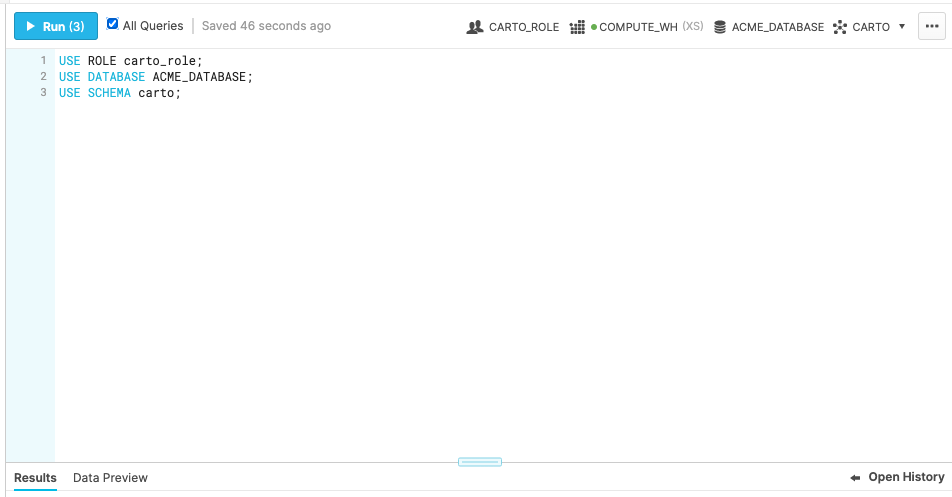
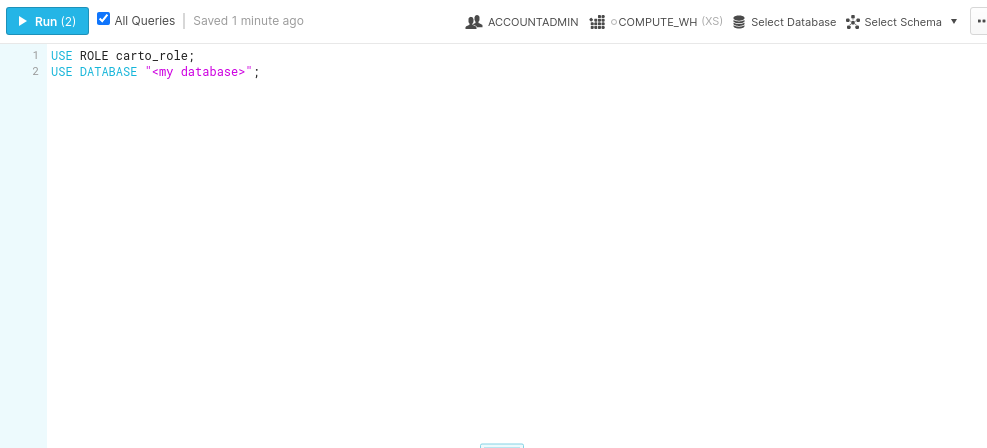
Update images

diff --git a/app/content/analytics-toolbox-snowflake/overview/getting-access.md b/app/content/analytics-toolbox-snowflake/overview/getting-access.md
@@ -46,7 +46,7 @@ This step consists of setting up the Snowflake database where we want to install
 
 We'll create a schema named "carto" in the database where you want the CARTO Analytics Toolbox installed.
 
-We recommend having a dedicated user called "carto" to manage the CARTO Analytics Toolbox. The following script will create the user, schema and role to be used for the installation in your database. Note that this script must be executed by an [account administrator](https://docs.snowflake.com/en/user-guide/security-access-control-considerations.html#using-the-accountadmin-role)
+We recommend having a dedicated user called "carto" to manage the CARTO Analytics Toolbox. The following script will create the user, schema and role to be used for the installation in your database. Note that this script must be executed by an [account administrator](https://docs.snowflake.com/en/user-guide/security-access-control-considerations.html#using-the-accountadmin-role).
 
 ```sql
 -- Set admin permissions
@@ -117,7 +117,6 @@ This step is required to run the next SQL scripts. Connect to the account using 
 ```sql
 USE ROLE carto_role;
 USE DATABASE "<my database>";
-USE SCHEMA carto;
 ```
 
 ![Setup on Snowflake Classic Web Interface](/img/analytics-toolbox-snowflake/install1.png)
@@ -137,8 +136,8 @@ SELECT carto.VERSION_CORE();
 You can also check the installed functions and procedures with:
 
 ```sql
-SHOW USER FUNCTIONS IN SCHEMA "<my_database>".carto;
-SHOW USER PROCEDURES IN SCHEMA "<my_database>".carto;
+SHOW USER FUNCTIONS IN SCHEMA carto;
+SHOW USER PROCEDURES IN SCHEMA carto;
 ```
 
 ##### 3. Create the functions and procedures
